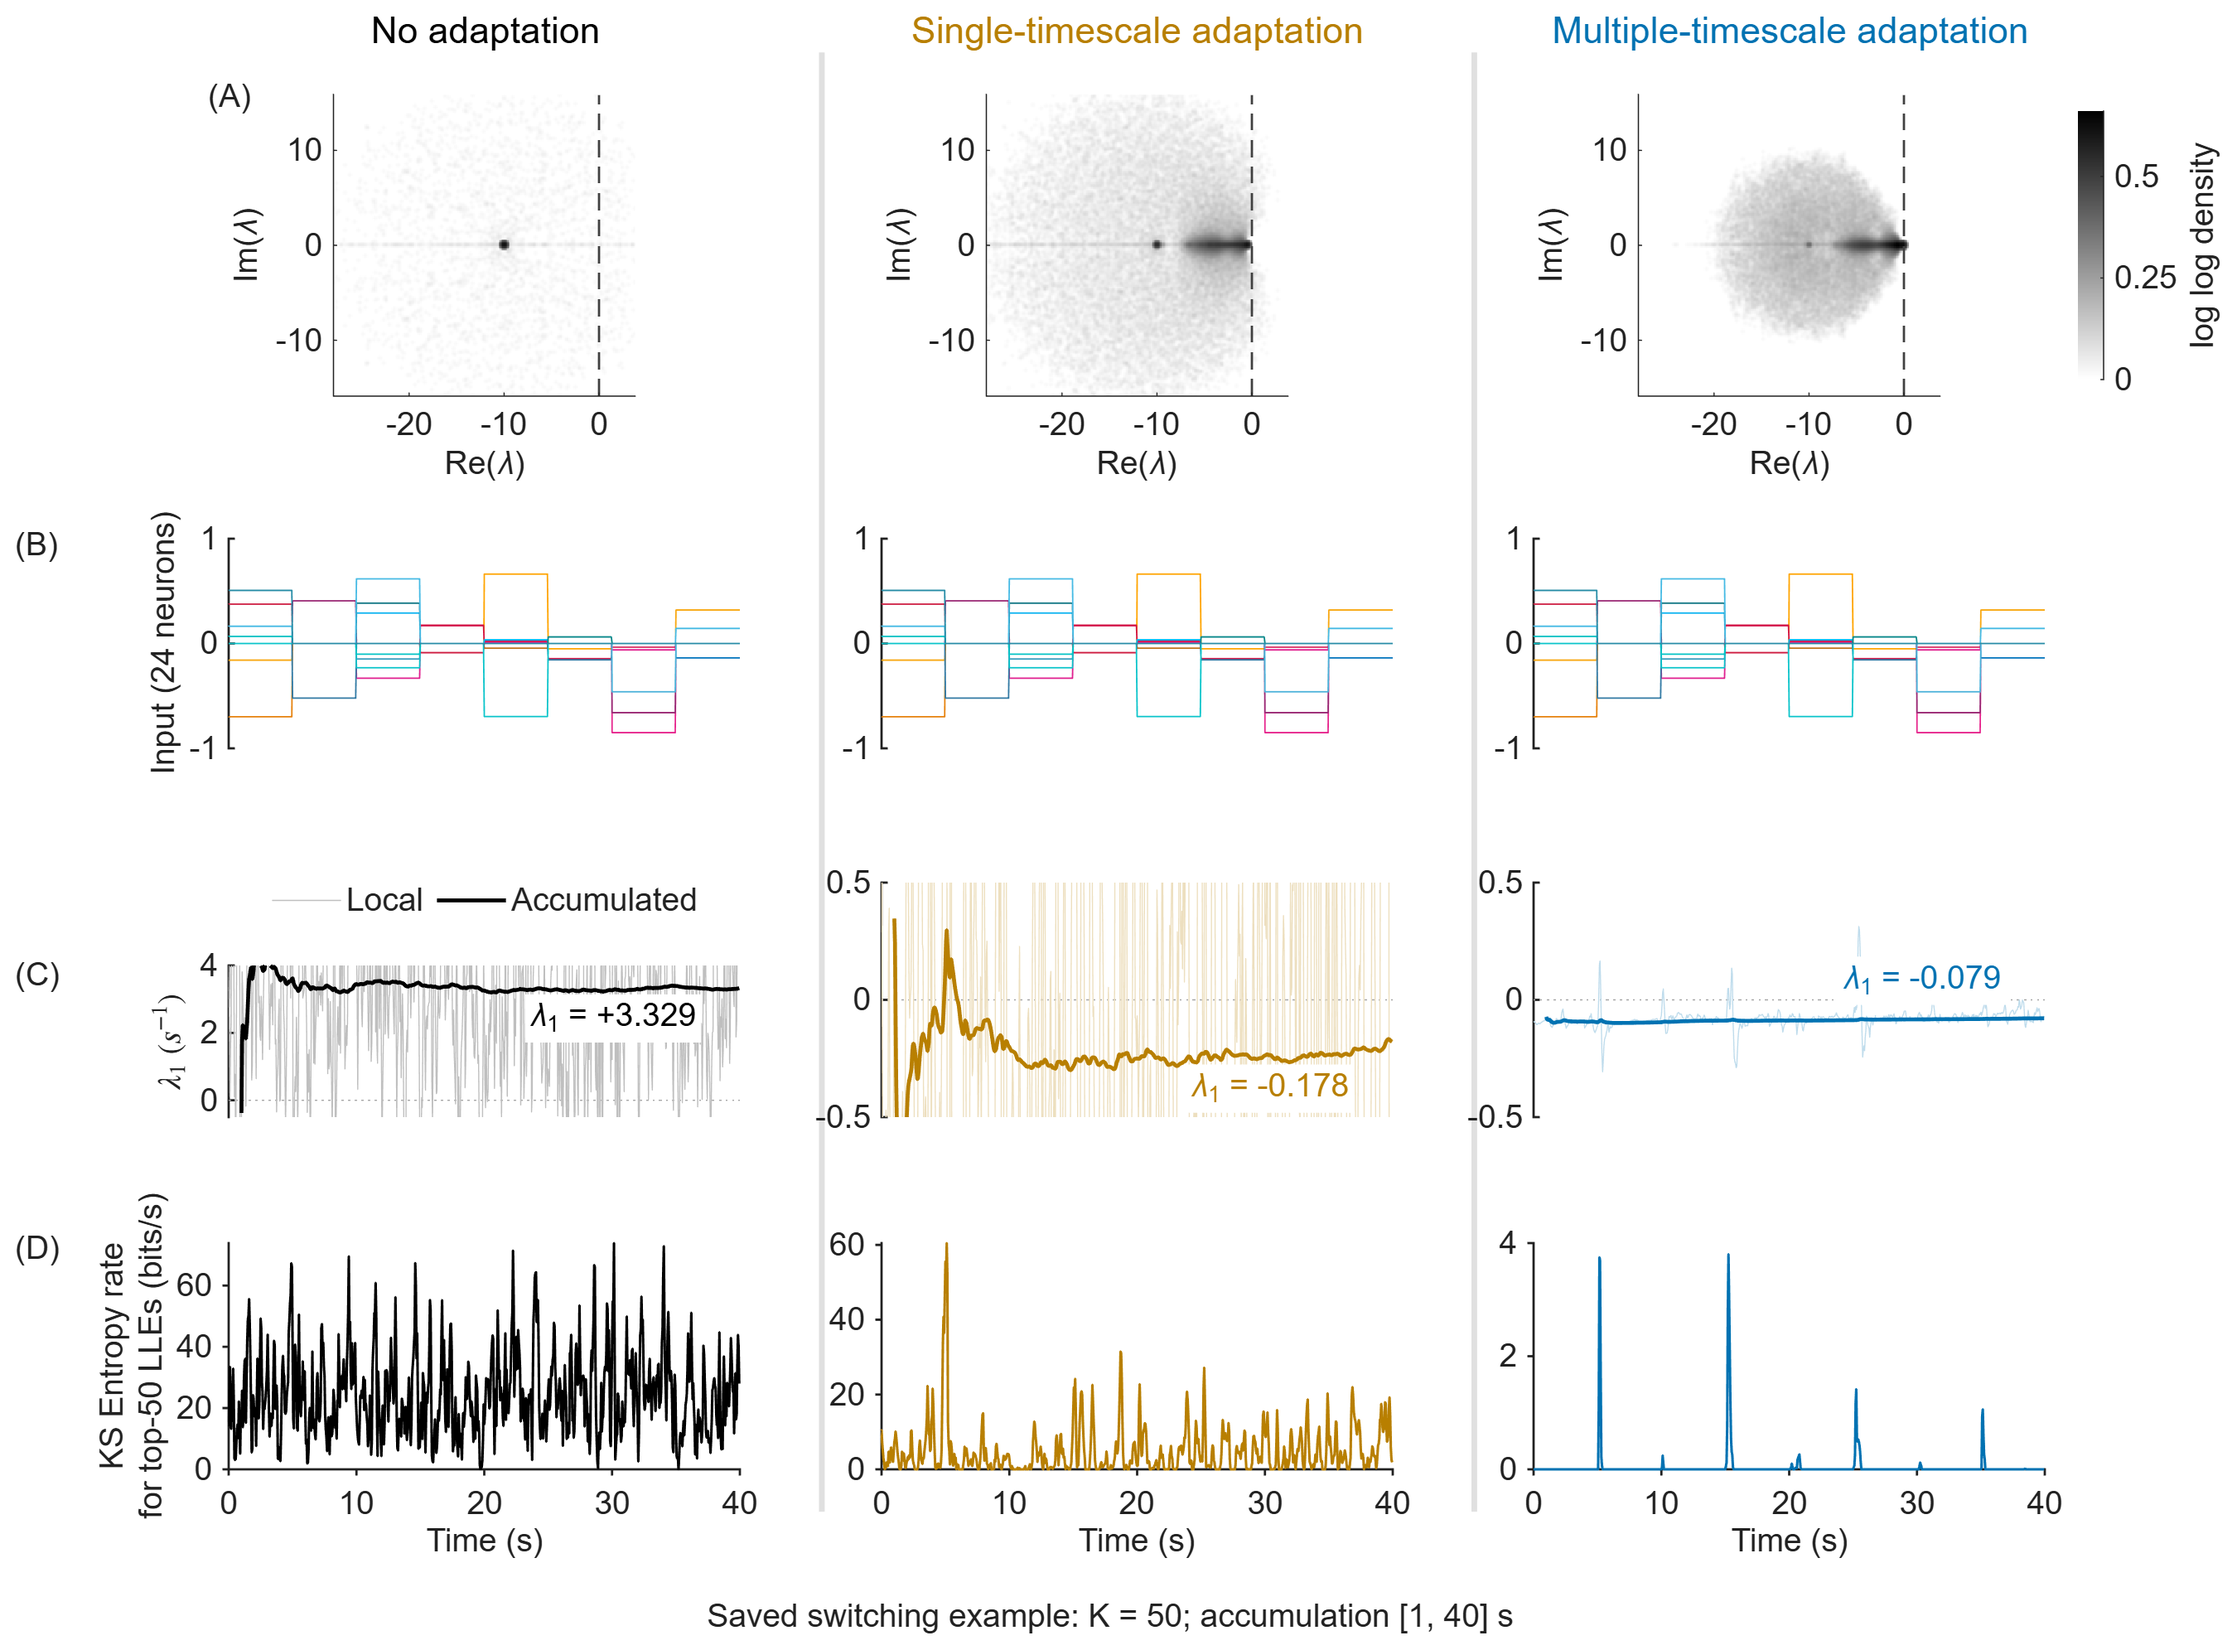
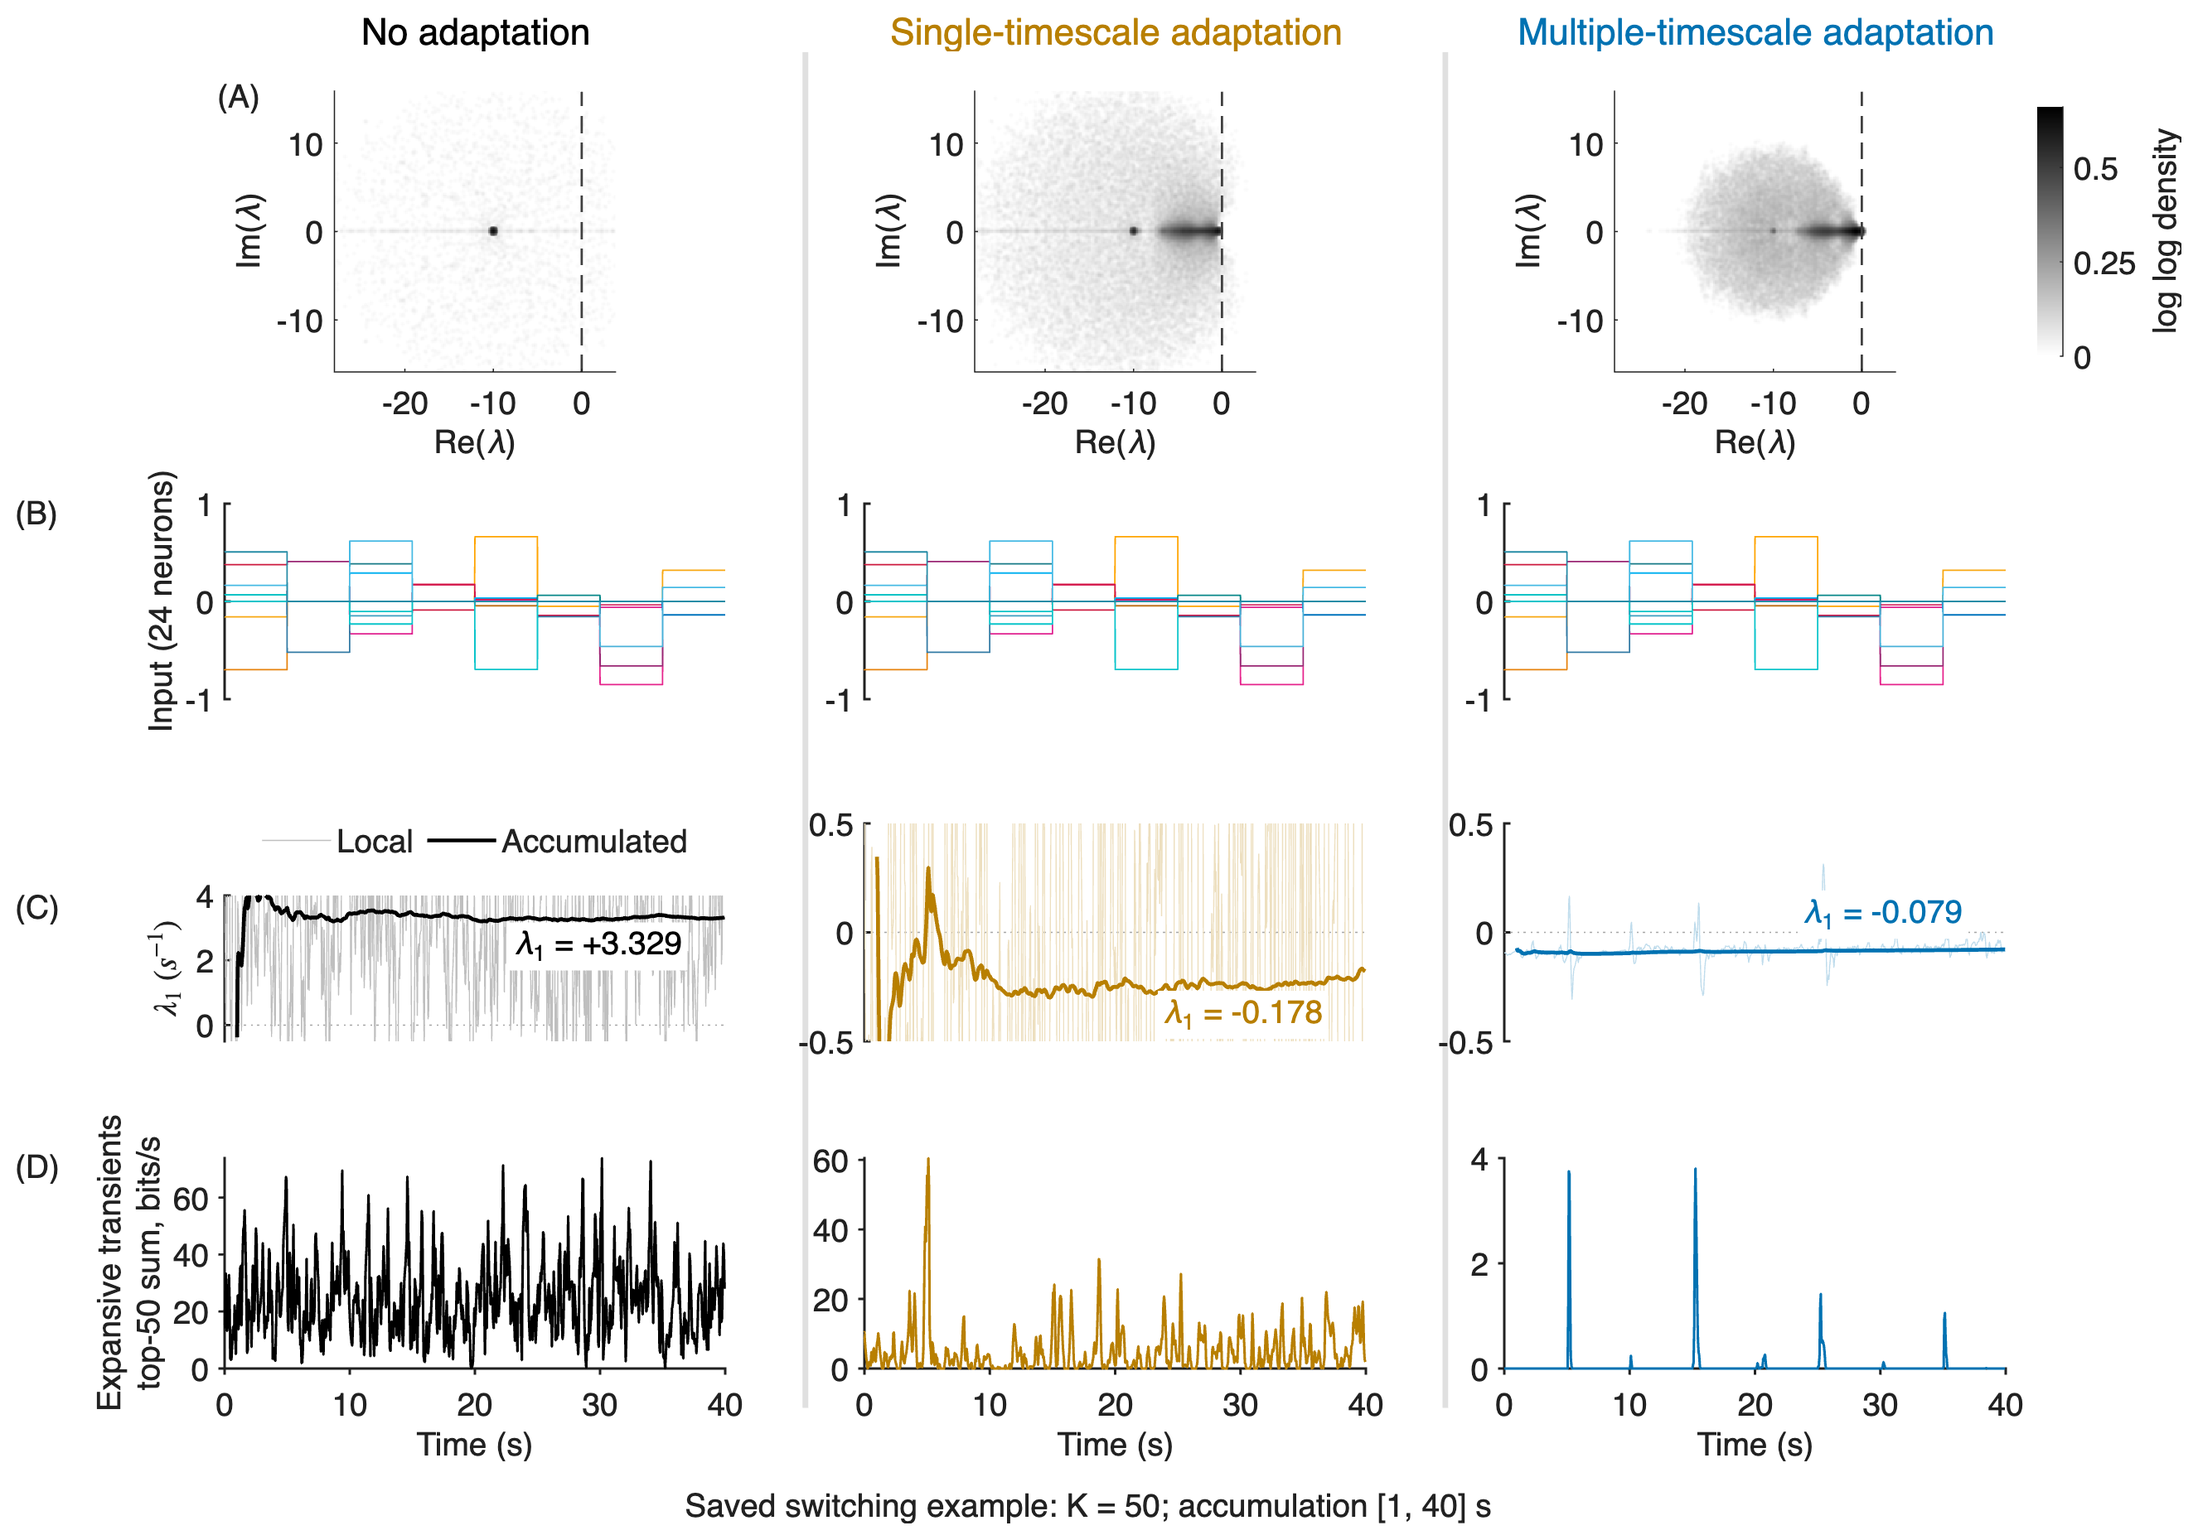
Relabel grouped Figure 3 as expansive transients

diff --git a/src/figures/fig_main3_stability.m b/src/figures/fig_main3_stability.m
@@ -64,7 +64,7 @@ text(sep,.51,.018,sprintf('Saved switching example: K = %d; accumulation [%g, %g
     K,D.settings.lya_T_interval),'HorizontalAlignment','center','FontSize',14);
 uistack(sep,'bottom'); set(findall(fig,'-property','FontSize'),'FontSize',14);
 for c=1:3, ax=findobj(fig,'Tag',sprintf('stability_r1_c%d',c)); ax.Title.FontSize=16; end
-notes={sprintf('Current switching data: K=%d; accumulation [%g,%g] s; saved segment-start timestamps retained. No early estimates fabricated. Requested K=50 and accumulation [1,40] s are prepared in mu7revised but not run.',D.settings.K,D.settings.lya_T_interval), ...
+notes={sprintf('Current switching data: K=%d; accumulation [%g,%g] s; saved segment-start timestamps retained. Settings are read from the completed saved analysis.',D.settings.K,D.settings.lya_T_interval), ...
     ['Input shows 24 fixed actual neurons (12 evenly spaced E and 12 I), identical indices across conditions. ' ...
     'Row C displays saved local leading rates (thin/light) and accumulated rates (prominent); fixed requested y limits clip local excursions. ' ...
     'Row D shows expansive transients: sum(max(saved local QR rates,0),2)/log(2), the positive local growth summed over the tracked QR directions. Division by log(2) expresses this growth in bits/s; it is not a measurement of KS entropy or information transmission. Eigenvalue and switching stages are separate examples.']};

diff --git a/figs/mu7revised_fast/fig_main3_grouped/Fig_Main3_Grouped_provenance.md b/figs/mu7revised_fast/fig_main3_grouped/Fig_Main3_Grouped_provenance.md
@@ -1,11 +1,11 @@
 # Main group 3
 
-Run: `C:\Users\m218089\Desktop\github_repos\FractionalReservoir\data\mu7revised_fast`
+Run: `/Users/tom/Desktop/local_code/FractionalReservoir/data/mu7revised_fast`
 
-- Source: `C:\Users\m218089\Desktop\github_repos\FractionalReservoir\data\mu7revised_fast\eig_heatmap\eig_heatmap_data.mat`
-- Source: `C:\Users\m218089\Desktop\github_repos\FractionalReservoir\data\mu7revised_fast\local_lyapunov\local_lyapunov_data.mat`
+- Source: `/Users/tom/Desktop/local_code/FractionalReservoir/data/mu7revised_fast/eig_heatmap/eig_heatmap_data.mat`
+- Source: `/Users/tom/Desktop/local_code/FractionalReservoir/data/mu7revised_fast/local_lyapunov/local_lyapunov_data.mat`
 
-Current switching data: K=50; accumulation [1,40] s; saved segment-start timestamps retained. No early estimates fabricated. Requested K=50 and accumulation [1,40] s are prepared in mu7revised but not run.
+Current switching data: K=50; accumulation [1,40] s; saved segment-start timestamps retained. Settings are read from the completed saved analysis.
 
-Input shows 24 fixed actual neurons (12 evenly spaced E and 12 I), identical indices across conditions. Row C displays saved local leading rates (thin/light) and accumulated rates (prominent); fixed requested y limits clip local excursions. The row-D KS label denotes the finite-K local positive sum = sum(max(saved local QR rates,0),2)/log(2). This is a provisional local h_KS proxy, not established invariant KS entropy; broader review deferred. Eigenvalue and switching stages are separate examples.
+Input shows 24 fixed actual neurons (12 evenly spaced E and 12 I), identical indices across conditions. Row C displays saved local leading rates (thin/light) and accumulated rates (prominent); fixed requested y limits clip local excursions. Row D shows expansive transients: sum(max(saved local QR rates,0),2)/log(2), the positive local growth summed over the tracked QR directions. Division by log(2) expresses this growth in bits/s; it is not a measurement of KS entropy or information transmission. Eigenvalue and switching stages are separate examples.
 
